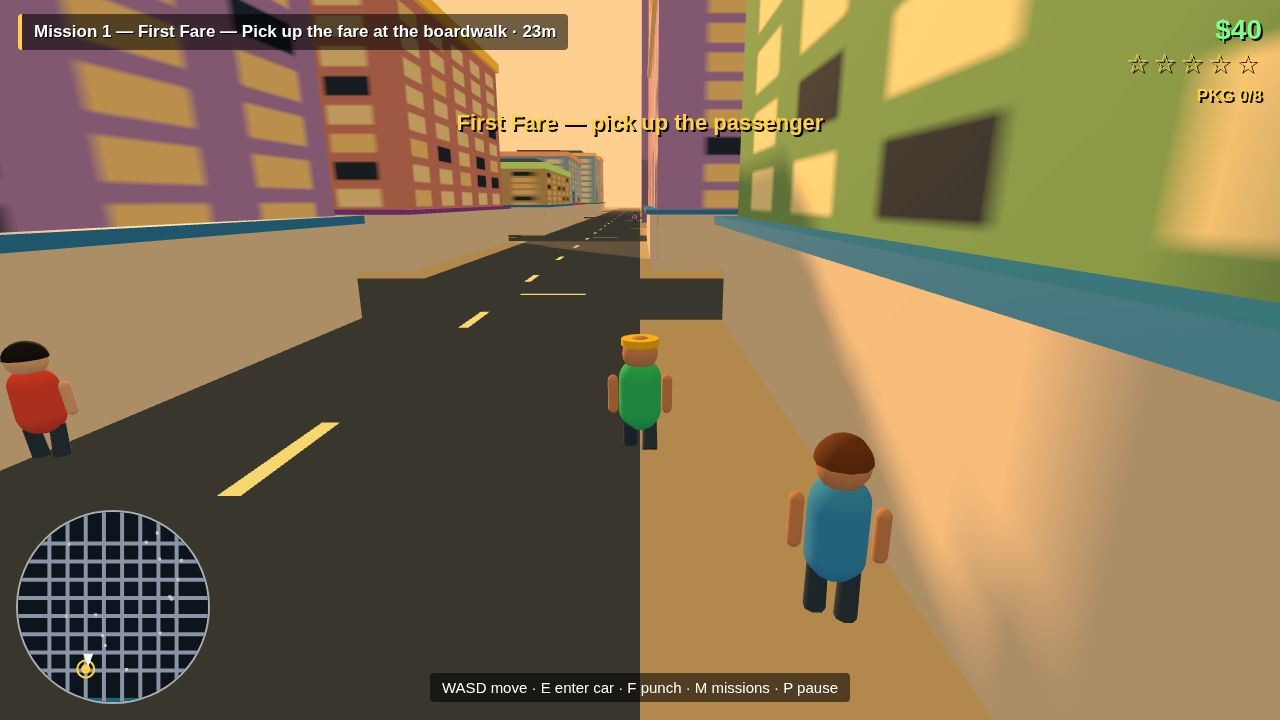
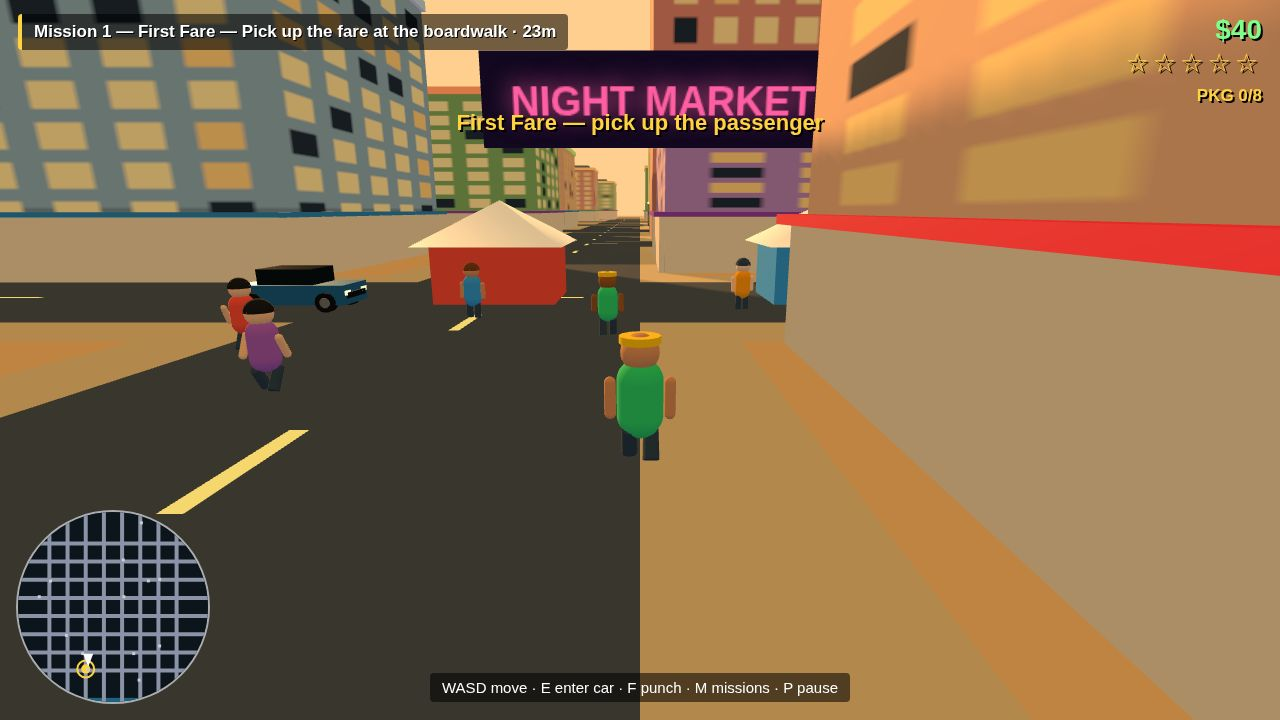
Port Solano v3.1: tighter framing, GT rear detail, boardwalk market, pier cruiser + sea detail

diff --git a/game/src/shots.js b/game/src/shots.js
@@ -26,13 +26,19 @@ function stageCover(game, ctx) {
   ctx.setMissionForShot(0);
   game.api.setMoney(240);
   game.api.setWanted(0);
+  // Tighter, lower camera, aimed up at the skyline: the cab fills the
+  // frame and the bottom half stops being empty asphalt.
+  game.api.setCamera({ dist: 9, height: 3.0, lookY: 3.2 });
   // Avenue x=22 heading north into downtown, sunset ahead.
   game.api.giveCar(0xf1c40f, 22, 120, Math.PI, false);
   // Traffic cars on the same avenue, ahead of the cab, in the edge lanes.
+  // Spots are set so that AFTER the 3 s pre-step (traffic rolls ~21
+  // units, the cab ~59) they still sit 10-60 units ahead of the cab —
+  // mid-frame and clearly readable, not dots on the horizon.
   const spots = [
-    { x: 18, z: 80, heading: Math.PI },
-    { x: 26, z: 50, heading: 0 },
-    { x: 18, z: 20, heading: Math.PI },
+    { x: 18, z: 52, heading: Math.PI },
+    { x: 26, z: 30, heading: 0 },
+    { x: 18, z: 30, heading: Math.PI },
   ];
   ctx.traffic.cars.slice(0, 3).forEach((car, i) => {
     car.x = spots[i].x;
@@ -56,6 +62,9 @@ function stageChase(game, ctx) {
   m.setPhase('carry');
   game.api.setMoney(685);
   game.api.setWanted(3);
+  // Pulled-back, wider camera (fov 70): the street reads wide instead
+  // of a canyon, and the GT's detailed rear stays fully in frame.
+  game.api.setCamera({ dist: 14, height: 5.5, fov: 70 });
   const car = game.api.giveCar(0xd7263d, -60, 22, Math.PI / 2, true);
   void car;
   // Two cruisers ahead of the GT, facing it head-on down the avenue.
@@ -70,18 +79,23 @@ function stageChase(game, ctx) {
 // mission beacon ahead. Rico stands at (-60, 142) facing north; six
 // walkers wait on the sidewalk just ahead of him, several facing back
 // toward the camera. Rico walks north past them, toward the market.
+// v3.1: walkers sit 4-15 units ahead of where Rico ENDS (z~128 after the
+// 2 s pre-step), spread across the camera's view, so 5-6 read in frame
+// instead of 3 — with the boardwalk market stalls behind them.
 function stageStreet(game, ctx) {
   ctx.setMissionForShot(0);
   game.api.setMoney(40);
   game.api.setWanted(0);
+  // Slightly tighter on-foot camera so Rico and the crowd read bigger.
+  game.api.setCamera({ dist: 8.5, height: 3.8 });
   game.api.teleport(-60, 142, Math.PI);
   const spots = [
-    [-70, 128, 0.3],
-    [-58, 132, -0.4],
-    [-68, 135, 0.1],
-    [-56, 126, 0.2],
-    [-64, 136, 3.0],
-    [-73, 123, 0.5],
+    [-71, 120, 0.2],
+    [-66, 115, -0.3],
+    [-61, 118, 0.1],
+    [-56, 113, 0.4],
+    [-68, 124, 3.1],
+    [-53, 118, -0.2],
   ];
   for (const [x, z, heading] of spots) ctx.pedestrians.placeWalker(x, z, heading);
   game.api.toast('First Fare — pick up the passenger', 5);
@@ -101,8 +115,10 @@ function stageMission(game, ctx) {
   game.api.setWanted(2);
   // On the pier, already pointed at the drop point.
   game.api.giveCar(0x2e86c1, -210, 190, 0, false);
-  // Cruiser on the deck, left lane, facing the car head-on.
-  ctx.police.placeCruiser(-213.5, 240, Math.PI);
+  // Cruiser on the deck, left lane, facing the car head-on. Staged ~18 m
+  // ahead of where the car ENDS after the pre-step (z~202), so it reads
+  // large in frame instead of a dot at the pier end.
+  ctx.police.placeCruiser(-213.5, 220, Math.PI);
   game.api.toast('The Drop — deliver the package to Pier 9', 5);
   // 60 steps (1 s): car at ~60 km/h and rising, still well up the pier.
   return { preSteps: 60, drive: { x: -210, z: 238 } };

diff --git a/game/src/vehicles.js b/game/src/vehicles.js
@@ -35,24 +35,56 @@ export function buildCarMesh(color, isPolice, isSport) {
     wheels.push(wheel);
   }
   // Front grille + headlights, rear taillights: the car reads as a car
-  // from the front and the back, not a coloured slab.
+  // from the front and the back, not a coloured slab. The sport body is
+  // longer (half-length 2.3 vs 2.1), so every face detail is placed off
+  // the true half-length — v3 buried the GT's lights inside its own body.
+  const halfLen = isSport ? 2.3 : 2.1;
+  const frontZ = halfLen + 0.01;
+  const rearZ = -halfLen - 0.01;
   const grille = new THREE.Mesh(
     new THREE.BoxGeometry(1.5, 0.22, 0.1),
     new THREE.MeshStandardMaterial({ color: 0x14181d, roughness: 0.5, metalness: 0.4 }),
   );
-  grille.position.set(0, 0.62, 2.11);
+  grille.position.set(0, 0.62, frontZ);
   group.add(grille);
   const headMat = new THREE.MeshStandardMaterial({ color: 0xfff6c8, emissive: 0xffe9a0, emissiveIntensity: 1.2, roughness: 0.3 });
   for (const side of [-1, 1]) {
     const head = new THREE.Mesh(new THREE.BoxGeometry(0.42, 0.18, 0.08), headMat);
-    head.position.set(side * 0.68, 0.72, 2.11);
+    head.position.set(side * 0.68, 0.72, frontZ);
     group.add(head);
   }
   const tailMat = new THREE.MeshStandardMaterial({ color: 0xcc2222, emissive: 0xaa1111, emissiveIntensity: 1.4, roughness: 0.3 });
   for (const side of [-1, 1]) {
     const tail = new THREE.Mesh(new THREE.BoxGeometry(0.42, 0.16, 0.08), tailMat);
-    tail.position.set(side * 0.68, 0.78, -2.11);
+    tail.position.set(side * 0.68, 0.78, rearZ);
     group.add(tail);
+  }
+  // Full-width taillight bar joining the two lamps, dark rear bumper,
+  // licence plate and twin exhaust tips — the rear reads as a rear,
+  // especially on the GT in the chase shot.
+  const tailBar = new THREE.Mesh(
+    new THREE.BoxGeometry(1.8, 0.14, 0.06),
+    new THREE.MeshStandardMaterial({ color: 0xdd2222, emissive: 0xcc1111, emissiveIntensity: 1.8, roughness: 0.3 }),
+  );
+  tailBar.position.set(0, 0.86, rearZ - 0.01);
+  group.add(tailBar);
+  const rearBumper = new THREE.Mesh(
+    new THREE.BoxGeometry(1.95, 0.26, 0.1),
+    new THREE.MeshStandardMaterial({ color: 0x14181d, roughness: 0.5, metalness: 0.4 }),
+  );
+  rearBumper.position.set(0, 0.3, rearZ - 0.01);
+  group.add(rearBumper);
+  const plate = new THREE.Mesh(
+    new THREE.BoxGeometry(0.72, 0.22, 0.04),
+    new THREE.MeshStandardMaterial({ color: 0xf5f5f5, roughness: 0.5 }),
+  );
+  plate.position.set(0, 0.58, rearZ - 0.03);
+  group.add(plate);
+  const exhaustMat = new THREE.MeshStandardMaterial({ color: 0x222226, roughness: 0.4, metalness: 0.7 });
+  for (const side of [-1, 1]) {
+    const exhaust = new THREE.Mesh(new THREE.BoxGeometry(0.2, 0.13, 0.14), exhaustMat);
+    exhaust.position.set(side * 0.62, 0.16, rearZ - 0.06);
+    group.add(exhaust);
   }
   if (isSport) {
     // Rear spoiler on the Sunray GT.
@@ -60,7 +92,7 @@ export function buildCarMesh(color, isPolice, isSport) {
       new THREE.BoxGeometry(1.7, 0.08, 0.5),
       new THREE.MeshStandardMaterial({ color: 0x14181d, roughness: 0.4, metalness: 0.5 }),
     );
-    spoiler.position.set(0, 1.18, -2.15);
+    spoiler.position.set(0, 1.18, rearZ + 0.18);
     group.add(spoiler);
   }
   let lightBar = null;

diff --git a/game/src/world.js b/game/src/world.js
@@ -147,7 +147,7 @@ function neonSign(text, color, width) {
   const g = canvas.getContext('2d');
   g.fillStyle = '#12081f';
   g.fillRect(0, 0, 256, 64);
-  g.font = 'bold 34px sans-serif';
+  g.font = 'bold 28px sans-serif';
   g.textAlign = 'center';
   g.textBaseline = 'middle';
   g.shadowColor = color;
@@ -317,6 +317,26 @@ export function createWorld(scene, random) {
   boat.position.set(-228, 0, 232);
   boat.rotation.y = 0.25;
   group.add(boat);
+  // Foam rings where the pier posts meet the water, and a few pale wave
+  // lines on the sea beside the pier, so the water reads as water.
+  const foamMat = new THREE.MeshBasicMaterial({ color: 0xeaf6f8, transparent: true, opacity: 0.75 });
+  for (let pz = 156; pz <= 248; pz += 11.5) {
+    for (const px of [-215.5, -204.5]) {
+      const foam = new THREE.Mesh(new THREE.CylinderGeometry(0.8, 0.8, 0.06, 10), foamMat);
+      foam.position.set(px, 0.05, pz);
+      group.add(foam);
+    }
+  }
+  for (let i = 0; i < 14; i += 1) {
+    const wave = new THREE.Mesh(
+      new THREE.BoxGeometry(range(random, 4, 9), 0.04, 0.35),
+      new THREE.MeshBasicMaterial({ color: 0xd6eef5, transparent: true, opacity: 0.6 }),
+    );
+    const side = i % 2 === 0 ? -1 : 1;
+    wave.position.set(-210 + side * range(random, 14, 60), 0.04, range(random, 160, 280));
+    wave.rotation.y = range(random, -0.4, 0.4);
+    group.add(wave);
+  }
   // Shipping containers stacked by the harbour gate.
   const containerColors = [0xd7263d, 0x2e86c1, 0xf39c12, 0x27ae60, 0x8e44ad];
   const containerSpots = [
@@ -396,6 +416,32 @@ export function createWorld(scene, random) {
     sign.rotation.y = rot;
     group.add(sign);
   }
+
+  // Boardwalk street market: two stalls + a neon sign across the avenue
+  // gap north of the boardwalk (x=-60), so the street screenshot has the
+  // market in its background instead of bare facades. The z=108-112 band
+  // sits between the two rows of block buildings, clear of their walls.
+  for (const [sx, stallColor] of [[-66, 0xe74c3c], [-52, 0x3498db]]) {
+    const stall = new THREE.Group();
+    const box = new THREE.Mesh(
+      new THREE.BoxGeometry(5, 2.4, 4),
+      new THREE.MeshStandardMaterial({ color: stallColor, roughness: 0.8 }),
+    );
+    box.position.y = 1.2;
+    stall.add(box);
+    const roof = new THREE.Mesh(
+      new THREE.ConeGeometry(4.2, 1.8, 4),
+      new THREE.MeshStandardMaterial({ color: 0xfdfefe, roughness: 0.7 }),
+    );
+    roof.position.y = 3.3;
+    roof.rotation.y = Math.PI / 4;
+    stall.add(roof);
+    stall.position.set(sx, 0, 110);
+    group.add(stall);
+  }
+  const marketSign = neonSign('NIGHT MARKET', '#ff5fa2', 16);
+  marketSign.position.set(-59, 8.5, 108);
+  group.add(marketSign);
 
   // Palms along the boardwalk, lamps at intersections.
   for (let t = -180; t <= 180; t += 22) {

diff --git a/game/src/main.js b/game/src/main.js
@@ -109,6 +109,7 @@ const game = {
   autopilot: null, // {target} when a screenshot scene drives itself
   cameraYaw: Math.PI,
   cameraPitch: 0.32,
+  shotCamera: null, // per-shot camera override {dist, height, lookY, fov}
   time: 0,
 };
 
@@ -319,8 +320,10 @@ function updateCamera(dt) {
   const focus = game.driving
     ? { x: game.driving.x, z: game.driving.z, heading: game.driving.heading }
     : { x: game.player.x, z: game.player.z, heading: game.cameraYaw };
-  const dist = game.driving ? 12 : 9.5;
-  const height = game.driving ? 5 : 4.2;
+  const cam = game.shotCamera || {};
+  const dist = cam.dist ?? (game.driving ? 12 : 9.5);
+  const height = cam.height ?? (game.driving ? 5 : 4.2);
+  const lookY = cam.lookY ?? 1.6;
   const yaw = game.driving ? focus.heading : game.cameraYaw;
   const tx = focus.x - Math.sin(yaw) * dist;
   const tz = focus.z - Math.cos(yaw) * dist;
@@ -328,7 +331,7 @@ function updateCamera(dt) {
   camera.position.x += (tx - camera.position.x) * k;
   camera.position.y += (height - camera.position.y) * k;
   camera.position.z += (tz - camera.position.z) * k;
-  camera.lookAt(focus.x, 1.6, focus.z);
+  camera.lookAt(focus.x, lookY, focus.z);
 }
 
 function updateWanted(dt) {
@@ -492,6 +495,15 @@ game.api = {
   setAutopilot(target) {
     game.autopilot = target ? { target } : null;
   },
+  // Per-shot camera framing: {dist, height, lookY, fov}. Applied by
+  // updateCamera/snapCamera; fov takes effect immediately.
+  setCamera(opts) {
+    game.shotCamera = opts || null;
+    if (opts && opts.fov) {
+      camera.fov = opts.fov;
+      camera.updateProjectionMatrix();
+    }
+  },
   // Snap the chase camera to its final framing at once. Under headless
   // virtual time only ~10-35 sim steps actually run before the screenshot,
   // so the lerped camera never converges — staging must be correct on the
@@ -500,10 +512,12 @@ game.api = {
     const focus = game.driving
       ? { x: game.driving.x, z: game.driving.z, heading: game.driving.heading }
       : { x: game.player.x, z: game.player.z, heading: game.cameraYaw };
-    const dist = game.driving ? 12 : 9.5;
-    const height = game.driving ? 5 : 4.2;
+    const cam = game.shotCamera || {};
+    const dist = cam.dist ?? (game.driving ? 12 : 9.5);
+    const height = cam.height ?? (game.driving ? 5 : 4.2);
+    const lookY = cam.lookY ?? 1.6;
     camera.position.set(focus.x - Math.sin(focus.heading) * dist, height, focus.z - Math.cos(focus.heading) * dist);
-    camera.lookAt(focus.x, 1.6, focus.z);
+    camera.lookAt(focus.x, lookY, focus.z);
   },
   toast: (m, s) => hud.toast(m, s),
   get player() {
